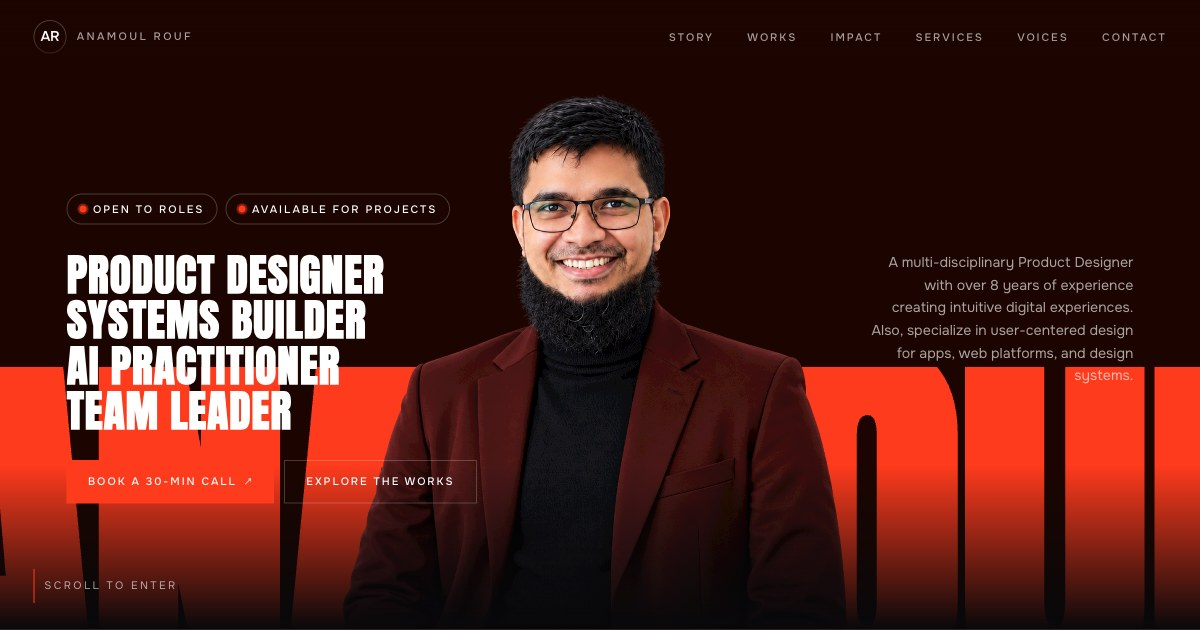
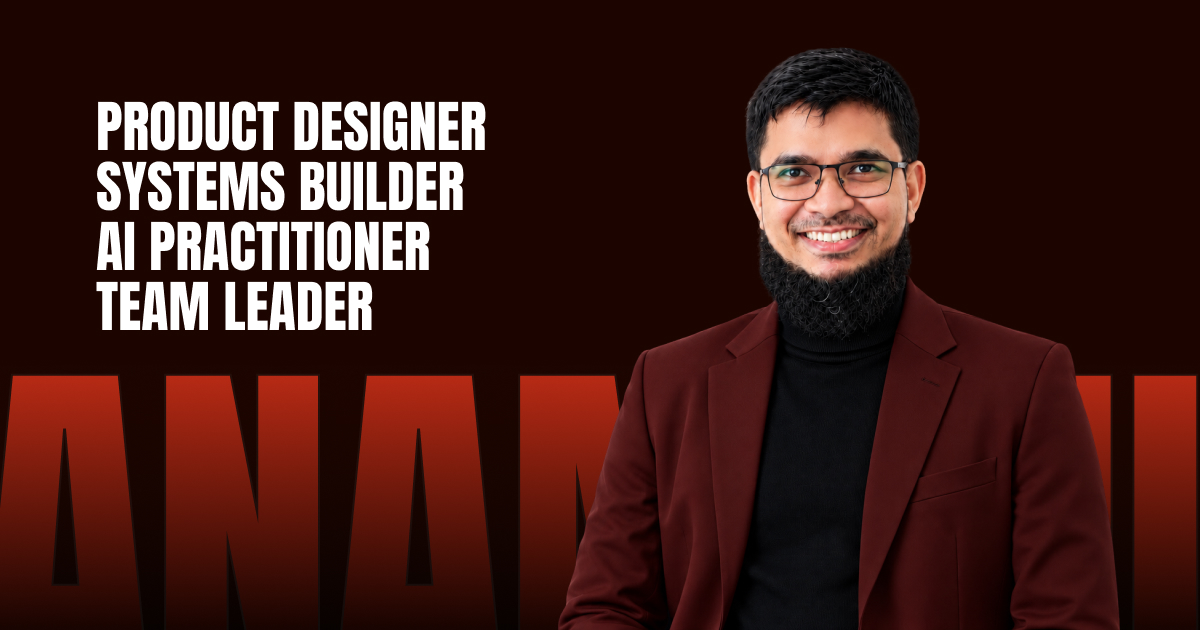
style: contact restructure + section borders + assets (owner)

diff --git a/index.html b/index.html
@@ -223,7 +223,7 @@ main{position:relative;width:100%;overflow-x:hidden}
 .hero{position:relative;display:flex;flex-direction:column;min-height:100svh;overflow:hidden}
 .hero-top{
   position:relative;z-index:30;display:flex;flex-direction:column;gap:2rem;
-  padding:7rem var(--gutter) 0;
+  padding-top:7rem;
 }
 
 @media (max-width:640px){
@@ -339,6 +339,8 @@ h2[data-splitlines]{font-family:var(--font-display);text-transform:uppercase}
 section{padding:var(--section) var(--gutter);border-bottom: 1px solid var(--line)}
 .sec-head{display:flex;flex-direction:column;gap:1.5rem}
 @media (min-width:640px){.sec-head{flex-direction:row;align-items:flex-end;justify-content:space-between}}
+@media (min-width:1200px){section, footer.site-footer{padding:var(--section)}}
+
 .sec-head h2{margin-top:1.5rem;letter-spacing:1px}
 .sec-count{font-size:var(--t-eyebrow);text-transform:uppercase;letter-spacing:0.22em;color:var(--muted)}
 @media (max-width:1200px){section#hero{padding:var(--gutter) var(--gutter)}}
@@ -526,19 +528,21 @@ section{padding:var(--section) var(--gutter);border-bottom: 1px solid var(--line
 }
 
 /* ============ CONTACT / FOOTER ============ */
-.site-footer{padding-top:var(--section);padding-inline:var(--gutter)}
-.site-footer h2{
+.contact h2{
   margin-top:1.5rem;max-width:18ch;line-height:1;
   font-size:var(--t-h1);
 }
+
+.site-footer{padding-top:var(--section);padding-inline:var(--gutter)}
+
 @media (max-width:640px){
-  .site-footer{text-align:center}
-  .site-footer .eyebrow{justify-content:center}
-  .site-footer .cta-row{align-items:center; padding-top:2rem;align-items:stretch}
-  .site-footer div.status-row{justify-content:center;padding-top:0rem; padding-bottom:2rem}
+  .contact, .site-footer{text-align:center}
+  .contact .eyebrow, .site-footer .eyebrow{justify-content:center}
+  .contact .cta-row, .site-footer .cta-row{align-items:center; padding-top:2rem;align-items:stretch}
+  .contact div.status-row, .site-footer div.status-row{justify-content:center;padding-top:0rem; padding-bottom:2rem}
 }
-@media (min-width:640px){.site-footer h2{font-size:var(--t-display); letter-spacing:0.5px}}
-.site-footer .lead{margin-top:2rem;max-width:44ch;font-size:var(--t-lead);line-height:var(--lh-lead);color:var(--muted)}
+@media (min-width:640px){.contact h2, .site-footer h2{font-size:var(--t-display); letter-spacing:0.5px}}
+.contact .lead, .site-footer .lead{margin-top:2rem;max-width:44ch;font-size:var(--t-lead);line-height:var(--lh-lead);color:var(--muted)}
 .email-link{
   margin-top:3rem;display:inline-flex;align-items:baseline;gap:0.75rem;
   font-size:var(--t-h3);font-weight:600;letter-spacing:-0.01em;word-break:break-all;
@@ -553,7 +557,6 @@ section{padding:var(--section) var(--gutter);border-bottom: 1px solid var(--line
 .email-link:hover{transform:translateX(14px);color:var(--accent)}
 .email-link .arr{color:var(--accent)}
 .footer-bar{
-  margin-top:var(--section);border-top:1px solid var(--line);padding:3rem 0;
   display:grid;grid-template-columns:1fr;gap:2.5rem;
 }
 @media (min-width:1024px){.footer-bar{grid-template-columns:repeat(12,1fr)}}
@@ -595,7 +598,7 @@ section{padding:var(--section) var(--gutter);border-bottom: 1px solid var(--line
   /* portrait top seam dissolves into the background */
   .hero-portrait{-webkit-mask-image:linear-gradient(to bottom,transparent 0,#000 22%);mask-image:linear-gradient(to bottom,transparent 0,#000 22%)}
   /* contact: center the constrained boxes, not just their text */
-  .site-footer h2,.site-footer .lead{margin-inline:auto}
+  .contact h2, .contact .lead, .site-footer h2, .site-footer .lead{margin-inline:auto}
   /* brands: static ruled grid - every rule .brands-scoped (track also carries .marquee-track) */
   .brands .brands-track{display:grid;grid-template-columns:repeat(3,1fr);width:auto;animation:none;border-top:0px solid var(--line);border-bottom:0px solid var(--line)}
   .brands .bi{display:grid;place-items:center;padding:0.95rem 0.6rem;border-bottom:0px solid var(--line)}
@@ -793,9 +796,9 @@ section{padding:var(--section) var(--gutter);border-bottom: 1px solid var(--line
     <div class="sec-head">
       <div>
         <p class="eyebrow" data-reveal><span class="dot"></span>Selected Works</p>
-        <h2 data-splitlines data-reveal-lines style="max-width:14ch;line-height:1;font-size:var(--t-h2)">The work that moved markets.</h2>
+        <h2 data-splitlines data-reveal-lines style="max-width:14ch;line-height:1;font-size:var(--t-h1)">The work that moved markets.</h2>
       </div>
-      <p class="sec-count" data-reveal>04 / Companies</p>
+      <p class="sec-count" data-reveal>04 / Products</p>
     </div>
     <ul class="venture-grid">
       <li>
@@ -947,7 +950,8 @@ section{padding:var(--section) var(--gutter);border-bottom: 1px solid var(--line
     <div class="story-grid">
       <div class="story-copy">
         <p class="eyebrow" data-reveal><span class="dot"></span>Services</p>
-        <h2 data-splitlines data-reveal-lines>Ideas in. Products out.</h2>
+        <h2 data-splitlines data-reveal-lines>Ideas in.</h2>
+        <h2 data-splitlines data-reveal-lines style="margin-top:0">Products out.</h2>
         <p class="lead" data-reveal style="--dur:520ms">
           Six ways to plug me in from a one-week audit to end-to-end product design.
           Easy to use, functional, customised.
@@ -1071,8 +1075,8 @@ section{padding:var(--section) var(--gutter);border-bottom: 1px solid var(--line
   </section>
 </main>
 
-<!-- ============ CONTACT / FOOTER ============ -->
-<footer class="site-footer" id="contact">
+<!-- ============ CONTACT ============ -->
+<section class="contact" id="contact">
   <div class="contact-inner">
     <div class="contact-copy">
       <p class="eyebrow" data-reveal><span class="dot sonar-dot"></span>Let's Build Together!</p>
@@ -1084,8 +1088,12 @@ section{padding:var(--section) var(--gutter);border-bottom: 1px solid var(--line
       </div>
     </div>
   </div>
+  
+</section>
 
-  <div class="footer-bar" style="padding-top:8rem; padding-bottom:4rem">
+<!-- ============ FOOTER ============ -->
+<footer class="site-footer">
+  <div class="footer-bar">
     <div class="fb-sign">
       <div class="status-row status-row--compact" data-reveal style="margin-top:0rem">
         <span class="chip"><span class="sonar-dot" aria-hidden="true"></span>Open to Roles</span>
